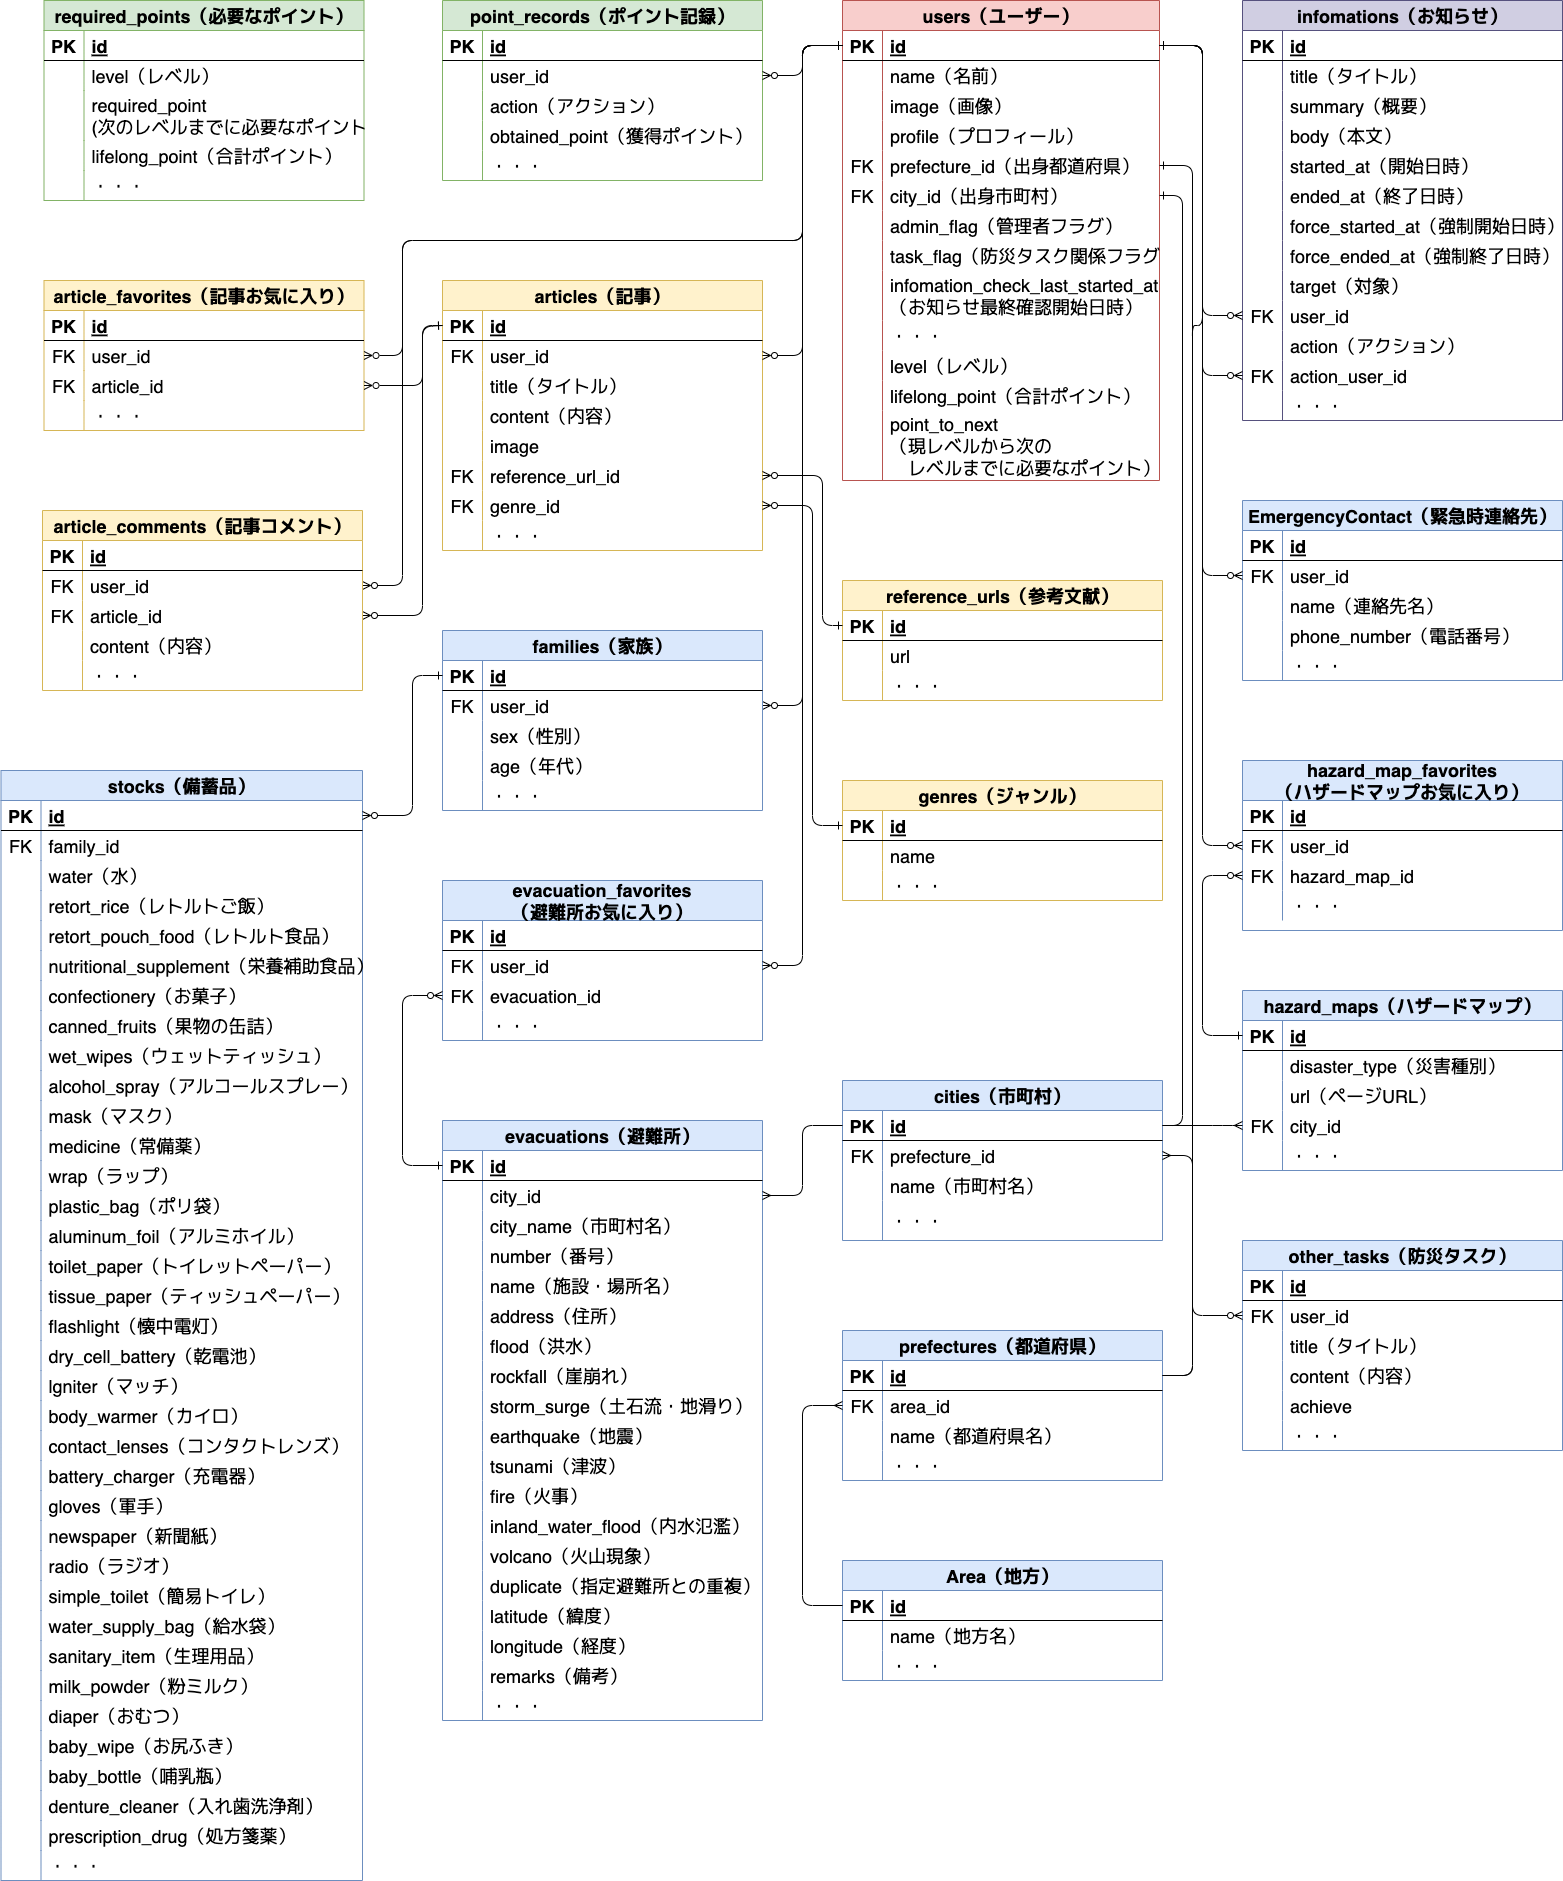
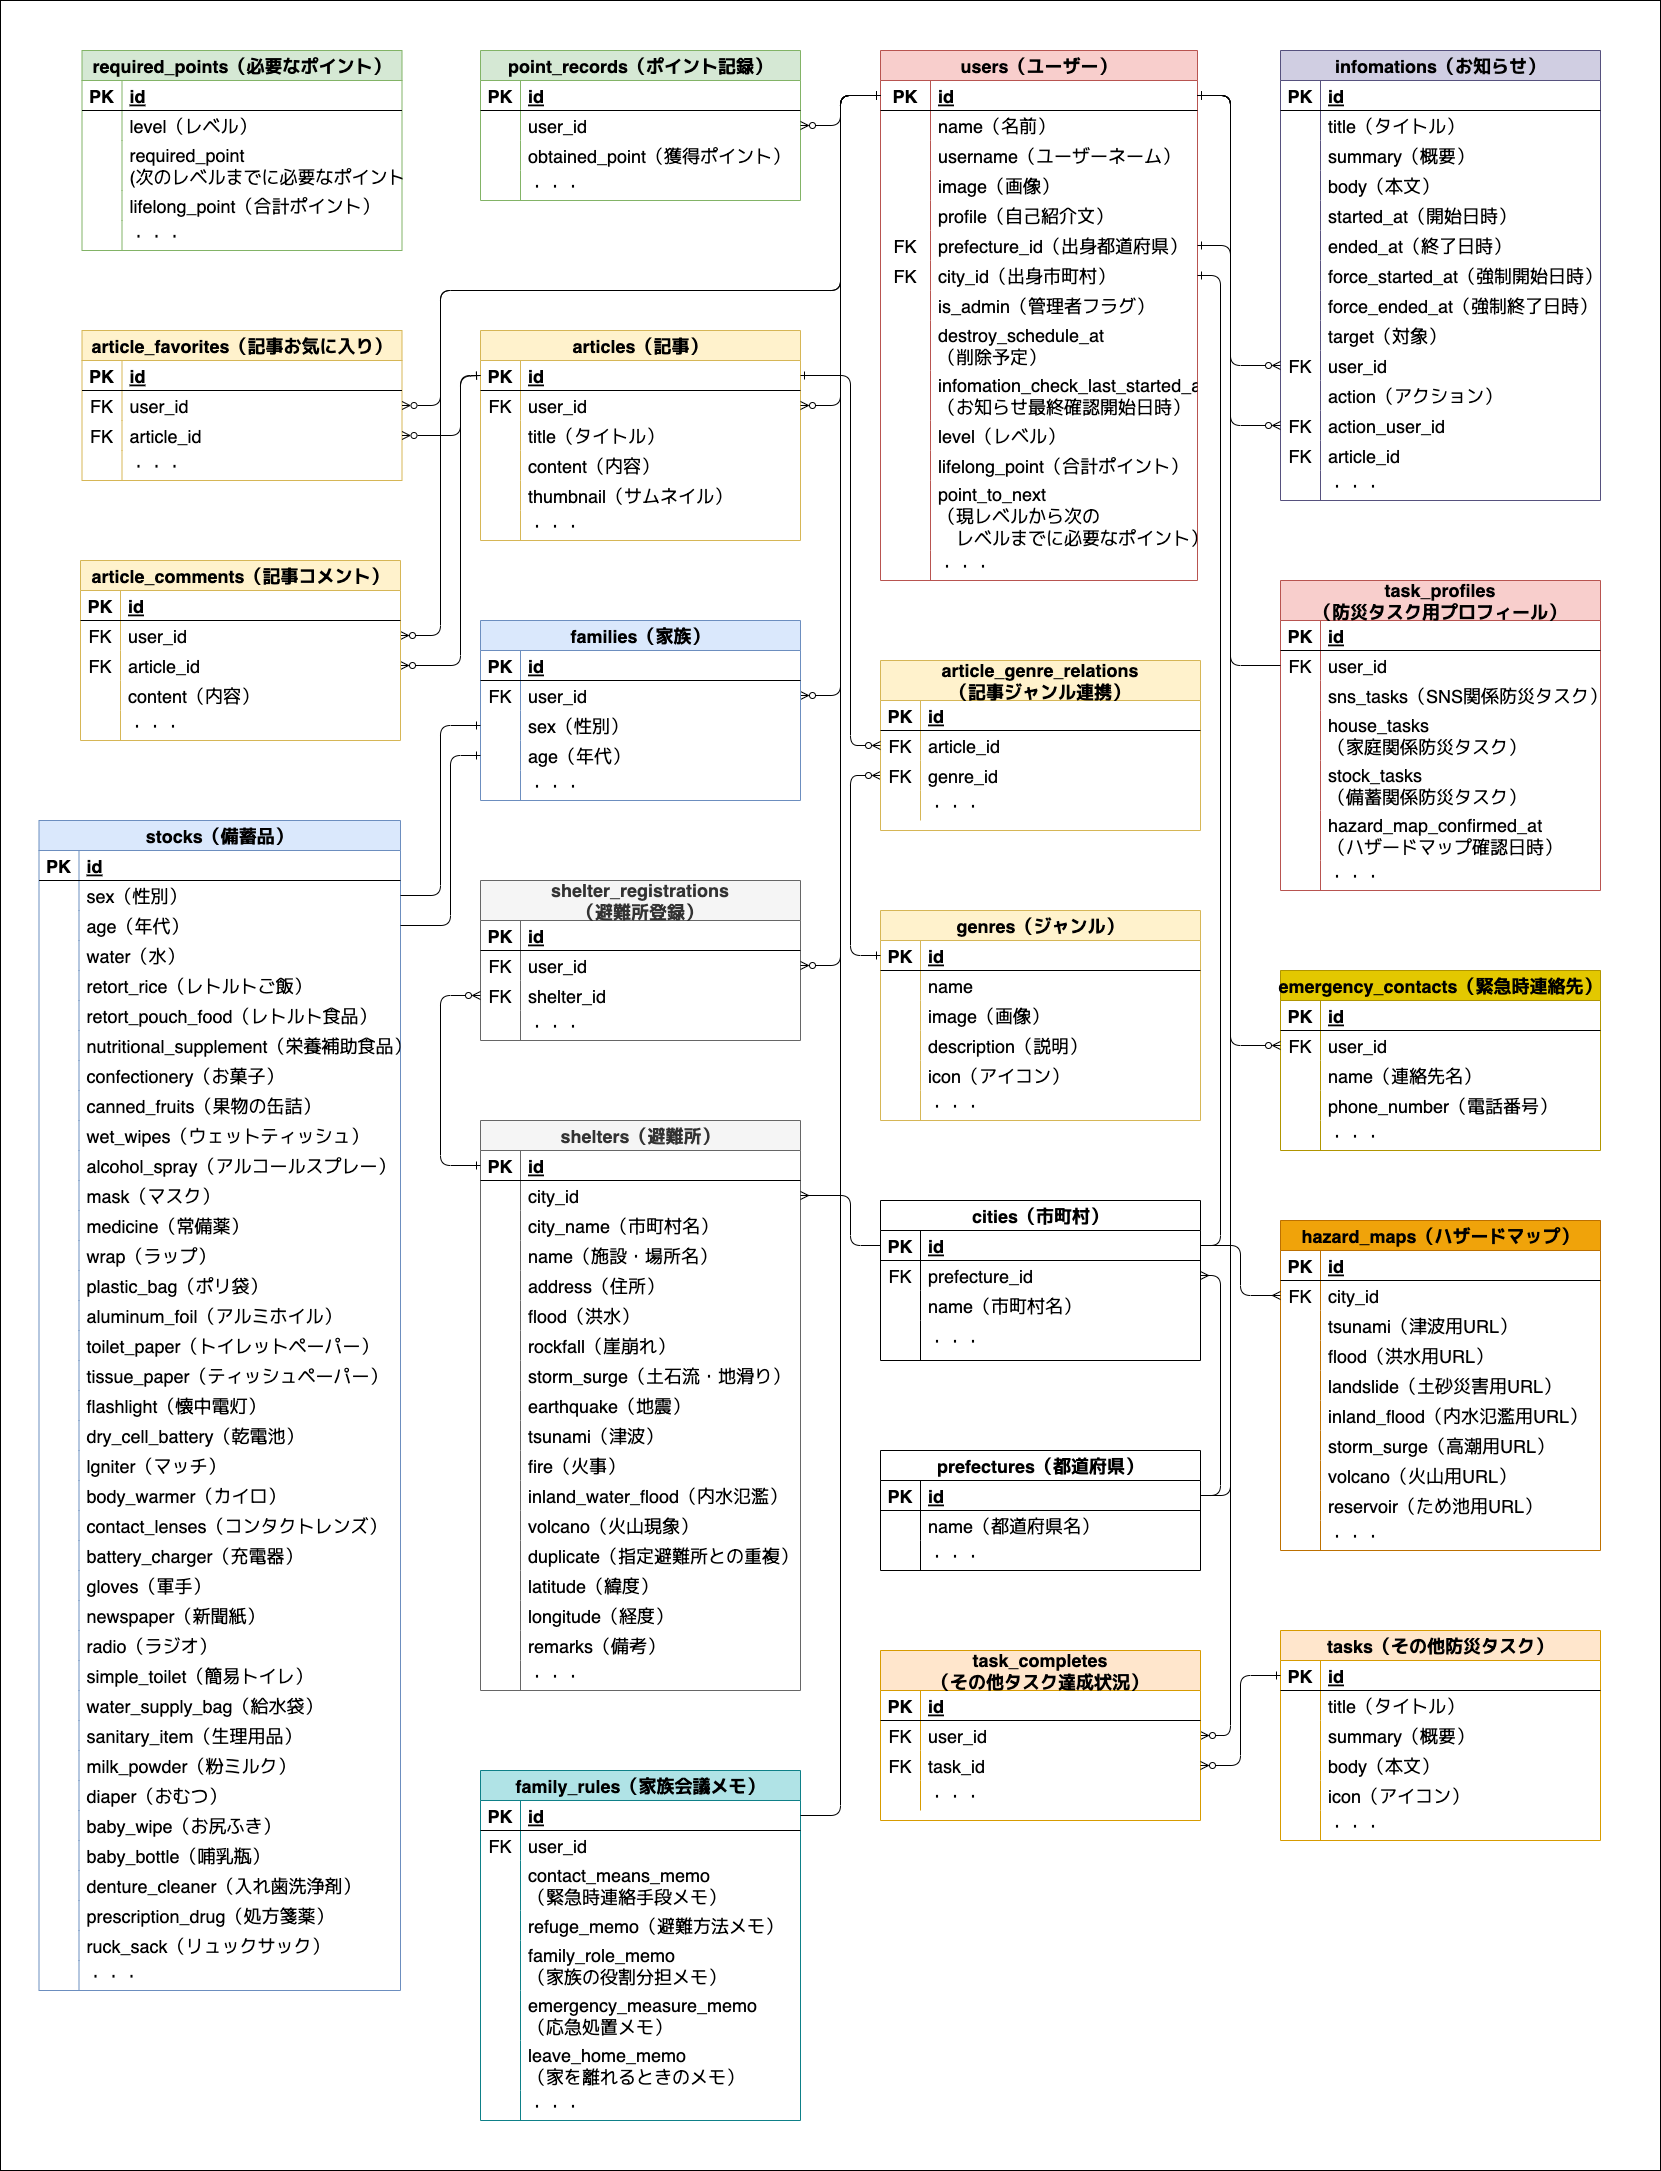
fix: 設計フォルダをアップデート

Changed region(s): [[0.0, 0.0, 1.0, 0.9867], [0.4607, 0.5242, 0.4914, 0.555], [0.0, 0.9867, 0.0307, 1.0]]

diff --git a/README.md b/README.md
@@ -1,6 +1,6 @@
-# BosaiLevel
+# BosaiLv
 
-「BosaiLevel(防災レベル)」は、防災タスクを達成し、自らの防災レベルを上げるサービスです。
+「BosaiLv(防災レベル)」は、防災タスクを達成し、自らの防災レベルを上げるサービスです。
 <br />
 
 # 機能一覧
@@ -8,27 +8,27 @@
 ### ユーザーに関連する機能
  - [x] 新規登録
  - [x] ログイン
- - [ ] ゲストログイン
+ - [x] ゲストログイン
  - [x] ログアウト
- - [ ] 登録情報の編集(名前,画像,profile,メールアドレス,パスワード,住所)
- - [ ] ユーザーページの表示(マイ記事,防災タスク,防災レベル)
+ - [x] 登録情報の編集(名前,画像,profile,メールアドレス,パスワード,住所)
+ - [x] ユーザーページの表示(マイ記事,防災タスク,防災レベル)
 
 ### 災害時役立つ記事に関連する機能
- - [ ] 記事の作成
- - [ ] 記事の検索
- - [ ] 記事の編集(タイトル,内容,参考リンク,ジャンル)
- - [ ] コメント作成,削除
- - [ ] お気に入り
- - [ ] 通知(コメント,お気に入り)
+ - [x] 記事の作成
+ - [x] 記事の検索
+ - [x] 記事の編集(タイトル,内容,ジャンル)
+ - [x] コメント作成,削除
+ - [x] お気に入り
+ - [x] 通知(コメント,お気に入り)
 
 ### 防災タスクに関連する機能(達成でポイント獲得)
- - [ ] 避難所検索,登録
- - [ ] ハザードマップ登録
- - [ ] 緊急連絡先登録
- - [ ] 防災備蓄品リスト作成
- - [ ] 家具固定確認
- - [ ] SNSフォロー確認
- - [ ] 家族会議確認
+ - [x] 避難所検索,登録
+ - [x] ハザードマップ検索,確認
+ - [x] 緊急連絡先登録
+ - [x] 防災備蓄品リスト作成
+ - [x] 家具固定確認
+ - [x] SNSフォロー確認
+ - [x] 家族会議確認
 
 <br />
 
